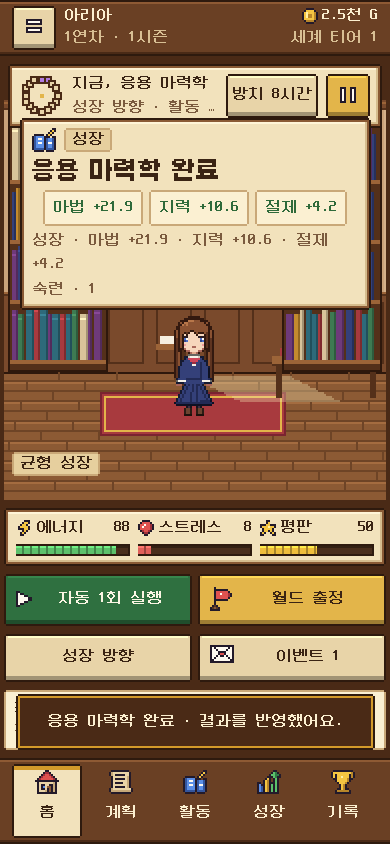
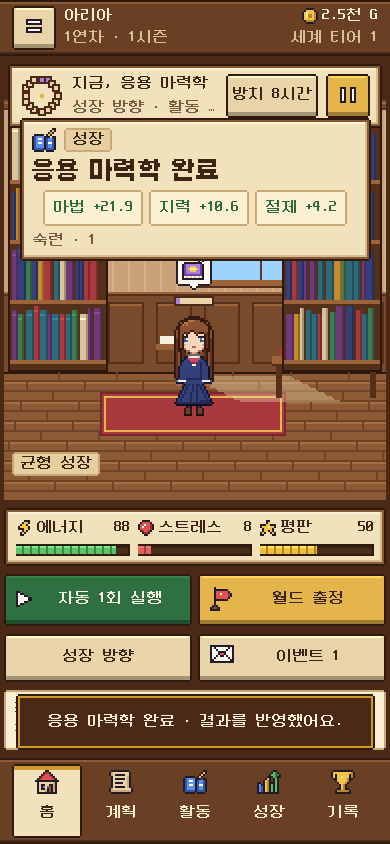
독립 검수 3회차(최종) 결과 반영과 로컬 리뷰 수정 (#8)
자동 근무 결과 띠, 관성 스크롤 중 갱신 미룸, 오프라인 정산 뒤 홈 갱신과 변화 목록, 현재 활동 상세, 결과 창 나머지 성장, 정산 이벤트 횟수를 고치고 3회차 검수 기록을 남긴다.

Changed region(s): [[0.0308, 0.2773, 0.9538, 0.3697]]

diff --git a/docs/game-design/ui/review/round-3.md b/docs/game-design/ui/review/round-3.md
@@ -1,0 +1,76 @@
+# 재설계 UI 검수 3 (최종)
+
+## 실행 전 계획
+
+- 설계: `2026-11-pixel-raising-ui` v1(방향 A), 조건 AC-UI-01~07, PX-01~05
+- 후보 SHA: `e20b887`(PR #7 병합 main, 1·2회차 수정 반영). 최종 후보이며 이 실행을 최종 회귀 실행으로 쓴다
+- 계획 작성: 2026-11-04 11:15 KST. 순서는 자동 게이트 → headless E2E → 렌더링 E2E 3 viewport → 기기 배율 렌더 → 1·2회차 문제 재확인 → 남은 미검증 경로 → 첫 세션·복귀 사용자 관점 판정
+- 통과 기준: 자동 게이트·E2E 전부 PASS, 1·2회차 높음·중간 문제 재발 없음, 아래 항목 모두 "통과", 높음·중간 새 문제 없음
+- 검수자: 1·2회차와 다른 새 리뷰 에이전트(general-purpose 서브에이전트). 페르소나는 처음 설치한 이용자(첫 세션 10분)와 하루 뒤 돌아온 이용자
+- 환경: macOS, Godot 4.7.2, GL Compatibility, 검수자 전용 worktree `princess-tycoon.worktrees/review-r3`
+- 격리 데이터: E2E `user://e2e/<viewport>/save.json`, 검수자 별도 `user://` 경로. 기본 사용자 저장 경로 금지
+
+### 핵심 기능 전체
+
+새 수련생, 성장 방향과 안전 규칙, 금지 태그, 활동 목록·필터·스크롤·1회 실행·상세·자동 큐, 추천 활동, 결과 연출(자동 결과 띠, 결과 창), 성장, 기록(칭호 격자), 월드 원정·도전, 상점 구매·장착·사용·판매·선물, 설정(자동 진행·모션 줄이기·효과음·고대비·저장·초기화 시트), 일시정지·재개, 이벤트, 저장·재실행·복원, 오프라인 정산, 이어하기.
+
+| 항목 | 기능 기대 결과 | UX 기대 결과 | 오류·복구 재현 | 남길 증거 |
+|---|---|---|---|---|
+| 1·2회차 재확인 | 1회차 H1~L5, 2회차 N1~N9 재발 없음 | 깜빡임·입력 샘 없음 | 시트 위 결과 창, 자동 갱신 중 드래그 | 캡처·측정 |
+| 남은 미검증 | 430×932·720×1280 렌더링 E2E, 업무 사고·모험 실패 결과 창, 칭호 격자 | 정보가 잘리지 않음 | 실패 결과 | 캡처 |
+| 첫 세션 | 첫 화면에서 할 일을 찾고 첫 결과까지 막힘 없음 | 수련생과 지금 할 행동이 먼저 읽힘 | 잠긴 활동 이해 | 캡처 |
+| 복귀 | 오프라인 정산·이벤트·이어하기 | 무엇이 바뀌었는지 보임 | 정산 없음 상태 | 캡처 |
+| 전체 화면 품질 | 12개 화면 시안 A 재질 일관, 접근성 기준 | 도트 선명, 대비, 터치 | 고대비·모션 줄이기 | 기기 배율 렌더 |
+
+## 실행 후 관찰·판정
+
+- 실행: 2026-11-04 11:16~11:35 KST, 후보 `e20b887`. 검수 worktree 변경 없음, 기본 저장 파일 미사용
+- 자동 게이트: `npm test` 종료 0(레이아웃 103, 모션 46, 픽셀 25 등), `test:e2e` 3 viewport PASS(82/19), 렌더링 E2E 3 viewport × 22장, 기기 배율 렌더 4종 PASS
+- 판정: **조건부**. 자동 게이트, 3 viewport, 기기 렌더, 시각 품질, 고대비, 모션 줄이기, 2회차 N1·N3~N9는 통과. 다만 1·2회차 H3·N2가 일부 재발(R1·R2, 중간)
+
+| 항목 | 실제 관찰·증거 | 기능/UX 문제·사용자 영향 | 판정 |
+|---|---|---|---|
+| 1·2회차 재확인 | H1, M1~M6, L1~L5, N1, N3~N9 통과. N1은 설정 시트 위 결과 창을 스위치 자리에서 눌러도 창만 닫힘 | H3: 평온한 아르바이트 자동 결과가 큰 결과 창(번영 방향 56슬롯 중 23회). N2: 관성 스크롤 중 갱신이 오면 멈추고 10px 되돌아감 | 일부 수정 필요 |
+| 업무 사고·모험 실패 결과 | 사고 내용과 부상 줄 표시 | 사고가 일반 성공처럼 보임, 모험 실패 첫 줄이 말줄임 없이 잘림, 성장 줄 반복 | 낮음 |
+| 칭호 격자 | 1·3·5성 별, 8성 "명인 +3" | 없음 | 통과 |
+| 첫 세션 | 첫 화면에서 수련생과 "자동 1회 실행"이 먼저 읽힘 | 첫 50초 학습 전부 잠김(시험 일정), 풀리는 시점 안내 없음 | 낮음 |
+| 복귀 | 정산 시트 자동, 편지함·이어하기 동작 | 받기·닫기 직후 홈이 약 4.8초 정산 전 값(R3). 정산 요약에 무엇이 바뀌었는지 없음(R4) | 수정 필요 |
+| 12화면 재질·접근성 | 3 viewport × 22장, 고대비 9장 시안 A 재질 일관, 1290 확대 흐림·이음매 없음 | 없음 | 통과 |
+
+## 수정·재확인·남은 문제
+
+같은 3회차 검수자가 수정 커밋 `fc0ca00`에서 해당 문제만 다시 확인했다(2026-11-04 11:45~12:05 KST, `npm test` 종료 0·모션 50, `test:e2e` 3 viewport 84/84·21/21).
+
+| ID | 원인 | 수정 | 재확인 결과 | 판정 |
+|---|---|---|---|---|
+| R1 중간 | 모든 아르바이트 결과에 "근무 결과" 줄이 붙어 자동 결과 판정이 거짓 | 업무 사고(`outcome.incident`)일 때만 결과 창 | 56슬롯 측정에서 결과 창으로 뜬 아르바이트가 번영 23 > 2회, 균형 7 > 2회. 평온한 근무는 하단 띠 | 통과 |
+| R2 중간 | 눌림 상태만 미루고 스크롤 값을 한 프레임 늦게 적용 | 목록이 관성으로 움직이는 동안도 갱신을 미루고 교체 직전 위치를 다시 읽음 | 관성 중 갱신에도 359px 끝까지 이동, 되돌아감 없음 | 통과 |
+| R3 중간 | 정산 뒤 현재 탭을 다시 그리지 않음(개편 전부터) | 받기 뒤 홈 다시 그림 | 받기·닫기 직후 정산 뒤 값 | 통과 |
+| R4 중간 | 정산 요약이 건수만 표시(개편 전부터) | 세계 티어, 새 칭호, 능력치 합, 골드(줄면 붉은 글자), 처리한 이벤트 | 표시 확인 | 통과 |
+| R5 낮음 | 사고도 성장 배지 | "사고" 배지, 붉은 테두리 | 확인 | 통과 |
+| R6 낮음 | 성장 줄 반복, 첫 줄 잘림 | 일반 활동 결과의 반복 제거, 첫 상세 줄 말줄임. 최종 PR에서 성장 줄을 칩 밖 나머지만 담게 바꿔 모험·도전 결과도 반복 제거 | 재확인 시점에는 모험·도전 결과 반복이 남았고 최종 PR에서 해결 | 통과(최종 PR) |
+| R7 낮음 | 현재 활동 창 말줄임 | 누르면 활동과 이유 전체를 알림으로 | 확인 | 통과 |
+| R8 낮음 | 문구 | 진행 중 도전 문구, 시계 문구, 알림 말투 | 활동 탭 행에서 진행 중 문구가 잘리고, 시험 겹침이 언제 풀리는지 안내 없음 | 일부 |
+| R9 낮음(새) | 엔진 `run_activity`의 "선행 활동 후 실행 조건을 충족하지 못함"을 변환하지 않음 | 없음(후속) | — | 남음 |
+
+**최종 판정: 통과.** 1·2·3회차를 통틀어 높음·중간 문제가 남지 않았다. 남은 문제는 모두 낮음이고 후속으로 처리한다.
+
+| 남은 낮음 문제 | 내용 |
+|---|---|
+| 도전 결과 창의 나머지 성장 | 도전 결과 창은 상세 4줄(조언·점수·판정·리그)이 먼저 차서 "그 외 성장" 줄이 보이지 않을 수 있음(로컬 리뷰 2회차) |
+| 심사 결과 창의 나머지 성장 | 심사 결과 창에는 칩 3개 밖의 성장 줄이 없음(로컬 리뷰 2회차) |
+| R8 일부 | 활동 탭 행의 진행 중 문구 말줄임, 시험 겹침 해제 시점 안내 없음 |
+| R9 | 수동 1회가 회복 규칙에 밀릴 때 엔진 원문 알림 |
+| 긴 제목 줄바꿈 | 결과 창의 긴 제목이 음절 단위로 줄바꿈(2회차 기록) |
+
+미검증: 실기기 관성 스크롤(기기 사용 승인 없음, Godot 렌더링 모드와 마우스 터치 흉내로 재현), 효과음 청취. 업무 사고는 검수 스크립트가 메모리에서만 위험값을 올려 확정했다(데이터 파일 변경 없음).
+
+### 최종 판정 뒤 로컬 코드 리뷰(mcode) 반영
+
+최종 PR의 로컬 리뷰(MiniMax 사용 한도가 풀려 이번에 처음 실행됨)가 결함 2건을 짚었고 모두 수용했다.
+- 정산 "처리한 이벤트"가 이벤트 종류 수였다. 기록의 count 합으로 바꿨다.
+- 결과 창 성장 줄 조건이 늘 거짓이라 네 번째 이후 성장이 어디에도 보이지 않았다. 성장 줄을 칩(3개) 밖의 나머지 능력치만 담는 "그 외 성장"으로 바꿨다. 이 수정으로 R6의 모험·도전 결과 창 칩 반복도 없어졌다.
+
+두 수정 뒤 `npm test` 종료 0(모션 52), `test:e2e` 3 viewport 84/84·21/21로 다시 확인했다. 리뷰 2회차는 이 수정이 만든 결함이 없음을 확인했고, 그 밖의 지적 2건은 기존 동작이라 후속 이슈로 돌렸다. 최종 후보는 `fc0ca00`에 이 수정을 더한 PR 병합 커밋이고, 3회차 실행과 이 재실행을 최종 회귀 근거로 쓴다.
+
+증거: NAS1dual `agent-artifacts/princess-tycoon/2026-11-04/e20b887/pixel-ui-review-round3/` (검수자 실행·재확인 증거와 작성자 캡처, 목록 SHA-256은 폴더의 `MANIFEST.txt`)

diff --git a/docs/12_구현_QA_증거.md b/docs/12_구현_QA_증거.md
@@ -33,7 +33,7 @@ npm run build:web
 | 레이아웃 | 103/103 PASS | 3개 비율의 필수 CTA, 390×844의 5탭·7시트 도트 격자(PX-05)와 글자의 실제 바탕 대비 |
 | 플랫폼 포트 | 16/16 PASS | 분석, 광고/IAP no-op, 합성 오디오 |
 | 포트 UI 연결 | 10/10 PASS | 설정과 실제 포트 연결 |
-| 결과·모션 UI | 46/46 PASS | 진행 고리, 스탯 칩, 결과 종류, reduced motion, 설정 즉시 반영, 페이퍼돌 장비·방향 반영, 토스트 입력 비차단, 결과 창 탭 차단과 자동 결과 띠, 이유·잠금 문구, 조사 |
+| 결과·모션 UI | 52/52 PASS | 진행 고리, 스탯 칩, 결과 종류, reduced motion, 설정 즉시 반영, 페이퍼돌 장비·방향 반영, 토스트 입력 비차단, 결과 창 탭 차단과 자동 결과 띠, 이유·잠금 문구, 조사 |
 | 픽셀 계약 | 25/25 PASS | 폰트·글리프(본문 폰트만으로 표시), 줄 높이 격자, nearest·픽셀 스냅, 스킨 계약, 페이퍼돌 합성기와 생성기 픽셀 일치 |
 
 주요 인수조건의 테스트 연결은 다음과 같다.
@@ -61,7 +61,7 @@ npm run build:web
 | `first-session` | 홈 → 메뉴 → 새 수련생(이름 입력·균형 방향) → 월드 원정 → 계획(학문 방향) → 활동 목록 카드 위 드래그 스크롤 → 추천·수동 활동 실행과 결과 카드 → 성장 → 기록 → 상점 구매 → 설정(모션 줄이기) → 일시정지·재개 → 이벤트 → 저장 |
 | `return-offline` | 장면 해제 → 1시간 뒤 재실행 → 이름·방향 복원 → 오프라인 정산 받기 → 이벤트 선택 → 이어하기 |
 
-2026-11-04 픽셀 UI 개편 뒤 Godot 4.7.2 headless 실행에서 세 viewport 모두 `first-session` 82/82, `return-offline` 19/19 단계가 통과했다. 개편으로 계획 스테퍼, 활동 상세 시트의 자동 큐 추가, 고대비 전환, 자동 진행 뒤 목록 스크롤 유지, 결과 창을 눌러 닫기(시트 위 포함), 구매 뒤 상점 스크롤 유지 단계가 더해졌다. 결과는 `build/e2e/<viewport>/journey.json`에 남는다. `npm run capture:e2e`는 같은 여정을 렌더링 모드로 돌려 장면별 PNG 22장을 저장한다.
+2026-11-04 픽셀 UI 개편 뒤 Godot 4.7.2 headless 실행에서 세 viewport 모두 `first-session` 84/84, `return-offline` 21/21 단계가 통과했다. 개편으로 계획 스테퍼, 활동 상세 시트의 자동 큐 추가, 고대비 전환, 자동 진행 뒤 목록 스크롤 유지, 결과 창을 눌러 닫기(시트 위 포함), 구매 뒤 상점 스크롤 유지, 현재 활동 상세, 정산 변화 목록과 홈 다시 그림 단계가 더해졌다. 독립 검수 3회 기록은 `game-design/ui/review/round-1~3.md`에 있다. 결과는 `build/e2e/<viewport>/journey.json`에 남는다. `npm run capture:e2e`는 같은 여정을 렌더링 모드로 돌려 장면별 PNG 22장을 저장한다.
 
 여정을 처음 붙이면서 두 결함을 찾아 고쳤다.
 

diff --git a/docs/design/2026-11-pixel-raising-ui/design.md b/docs/design/2026-11-pixel-raising-ui/design.md
@@ -1,7 +1,7 @@
 # 설계: 픽셀 육성 시뮬레이션 UI/UX 개편
 
 - 설계 ID·버전: `2026-11-pixel-raising-ui` v1, 기준 커밋 `d6a9926`(E2E 여정 병합 직후 main)
-- 상태: 승인(2026-11-04). 방향 A. 아카데미 방.
+- 상태: 승인(2026-11-04). 방향 A. 아카데미 방. 구현과 독립 검수 3회 완료(최종 판정 통과, 후보 `fc0ca00`). 남은 낮은 문제는 `docs/game-design/ui/review/round-3.md`.
 - 관련: PR #1(E2E 여정), [방향 시안](../../game-design/ui/directions-v1.png), [레퍼런스 조사](../../game-design/ui/research.md), [테스트 계획](test-plan.json)
 
 ## 목적·범위·근거
@@ -158,7 +158,7 @@ flowchart LR
 | PR-B2 (#3) | 정본 개정(GDD 1장·§11, 구현계약 AC-UI-04), 렌더 설정, 토큰·테마(고대비 포함), 페이퍼돌 합성기, 셸(머리 띠, 현재 활동 창, 탭)·홈, 결과 창 계단식 연출, PX-01~04 테스트, 옛 테마·Noto 삭제 |
 | PR-C (#4) | 계획·활동·성장, 활동 상세 시트, PX-05 격자 검사(4화면), 토스트 입력 가로채기 회귀 수정 |
 | PR-D (#5) | 기록·시트 7종, PX-05 전 화면, 본문 폰트 글리프 고정, `docs/12`와 `docs/qa` 갱신 |
-| PR-E | 독립 검수 3회와 범위 안의 수정 |
+| PR-E (#6, #7, 이번 PR) | 독립 검수 3회와 범위 안의 수정 |
 
 - PR-B는 에셋과 생성물을 뺀 변경이 약 3,800줄이라 런타임 변경이 없는 B1과 런타임 B2로 나눴다.
 - 각 PR은 에셋과 생성물을 뺀 변경을 1,500줄 이하로 유지하고, 그 상태에서 모든 게이트가 통과한다.
